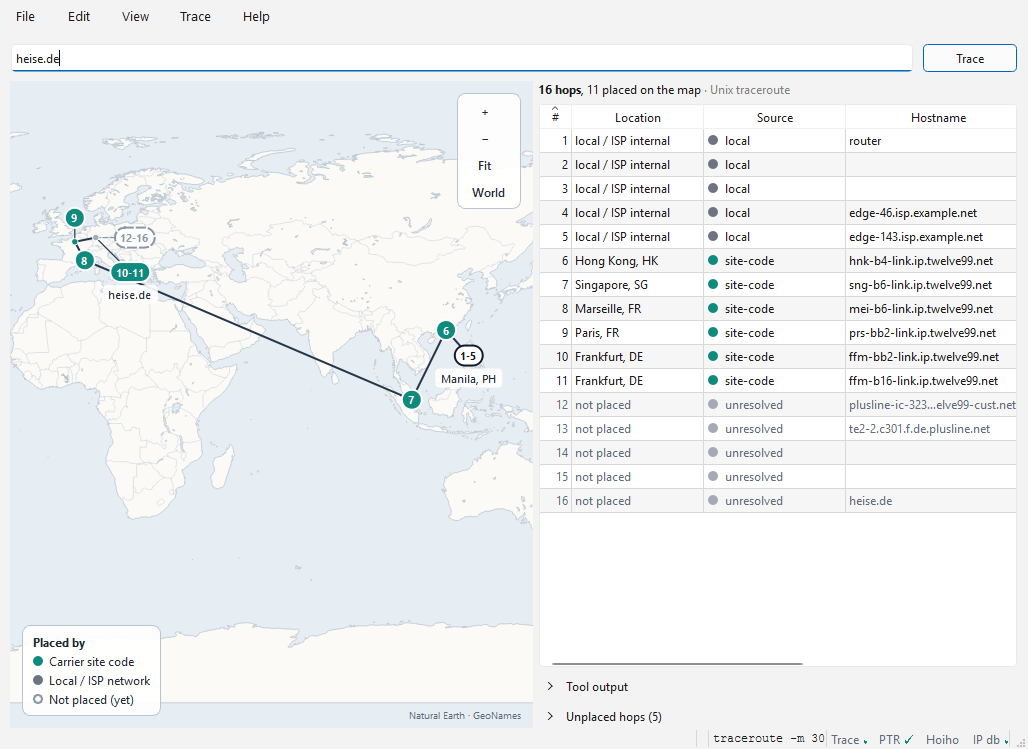
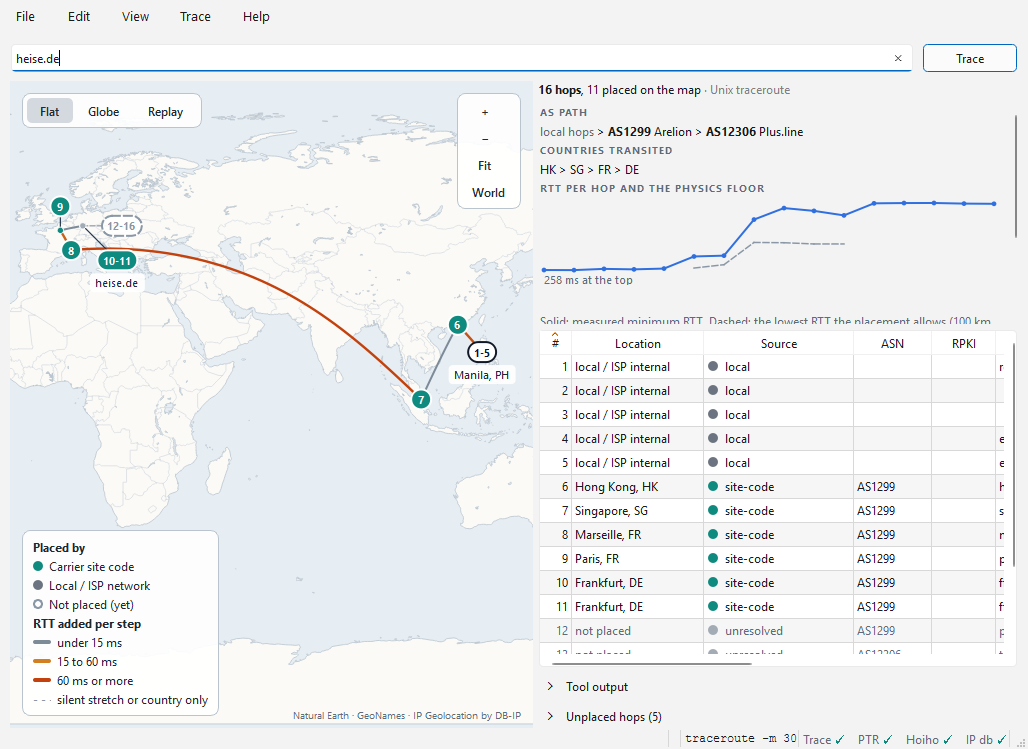
Site: the Windows screenshot from 0.2.0-beta.1's packaged build

diff --git a/site/content/screenshots.html b/site/content/screenshots.html
@@ -16,8 +16,8 @@ addresses. The images follow this site's light or dark mode, as the app follows 
   <figcaption><strong>Trace again and compare.</strong> A run on 4 October against the recording of 3 October: same path to Singapore, Marseille and Paris gone, and heise.de no longer answering after hop 14.</figcaption>
 </figure>
 <figure class="shot narrow">
-  <img src="/assets/img/windows-light.png" width="1028" height="749" loading="lazy" alt="Route Map 0.1.0-beta.5 on Windows with the bundled sample trace to heise.de, mapped with the carrier site codes only">
-  <figcaption><strong>Windows</strong> (light theme). The packaged beta.5 routemap.exe on a Windows desktop, mapping the bundled sample trace offline: carrier site codes only, so the German hops stay unplaced.</figcaption>
+  <img src="/assets/img/windows-light.png" width="1028" height="749" loading="lazy" alt="Route Map 0.2.0-beta.1 on Windows with the bundled sample trace to heise.de, mapped offline: carrier site codes and the AS path from the bundled DB-IP Lite ASN">
+  <figcaption><strong>Windows</strong> (light theme). The packaged 0.2.0-beta.1 routemap.exe mapping the bundled sample trace offline: carrier site codes and the bundled DB-IP Lite ASN, so the AS path is there while the German hops stay unplaced.</figcaption>
 </figure>
 <div class="pair">
   <figure class="shot paper">
